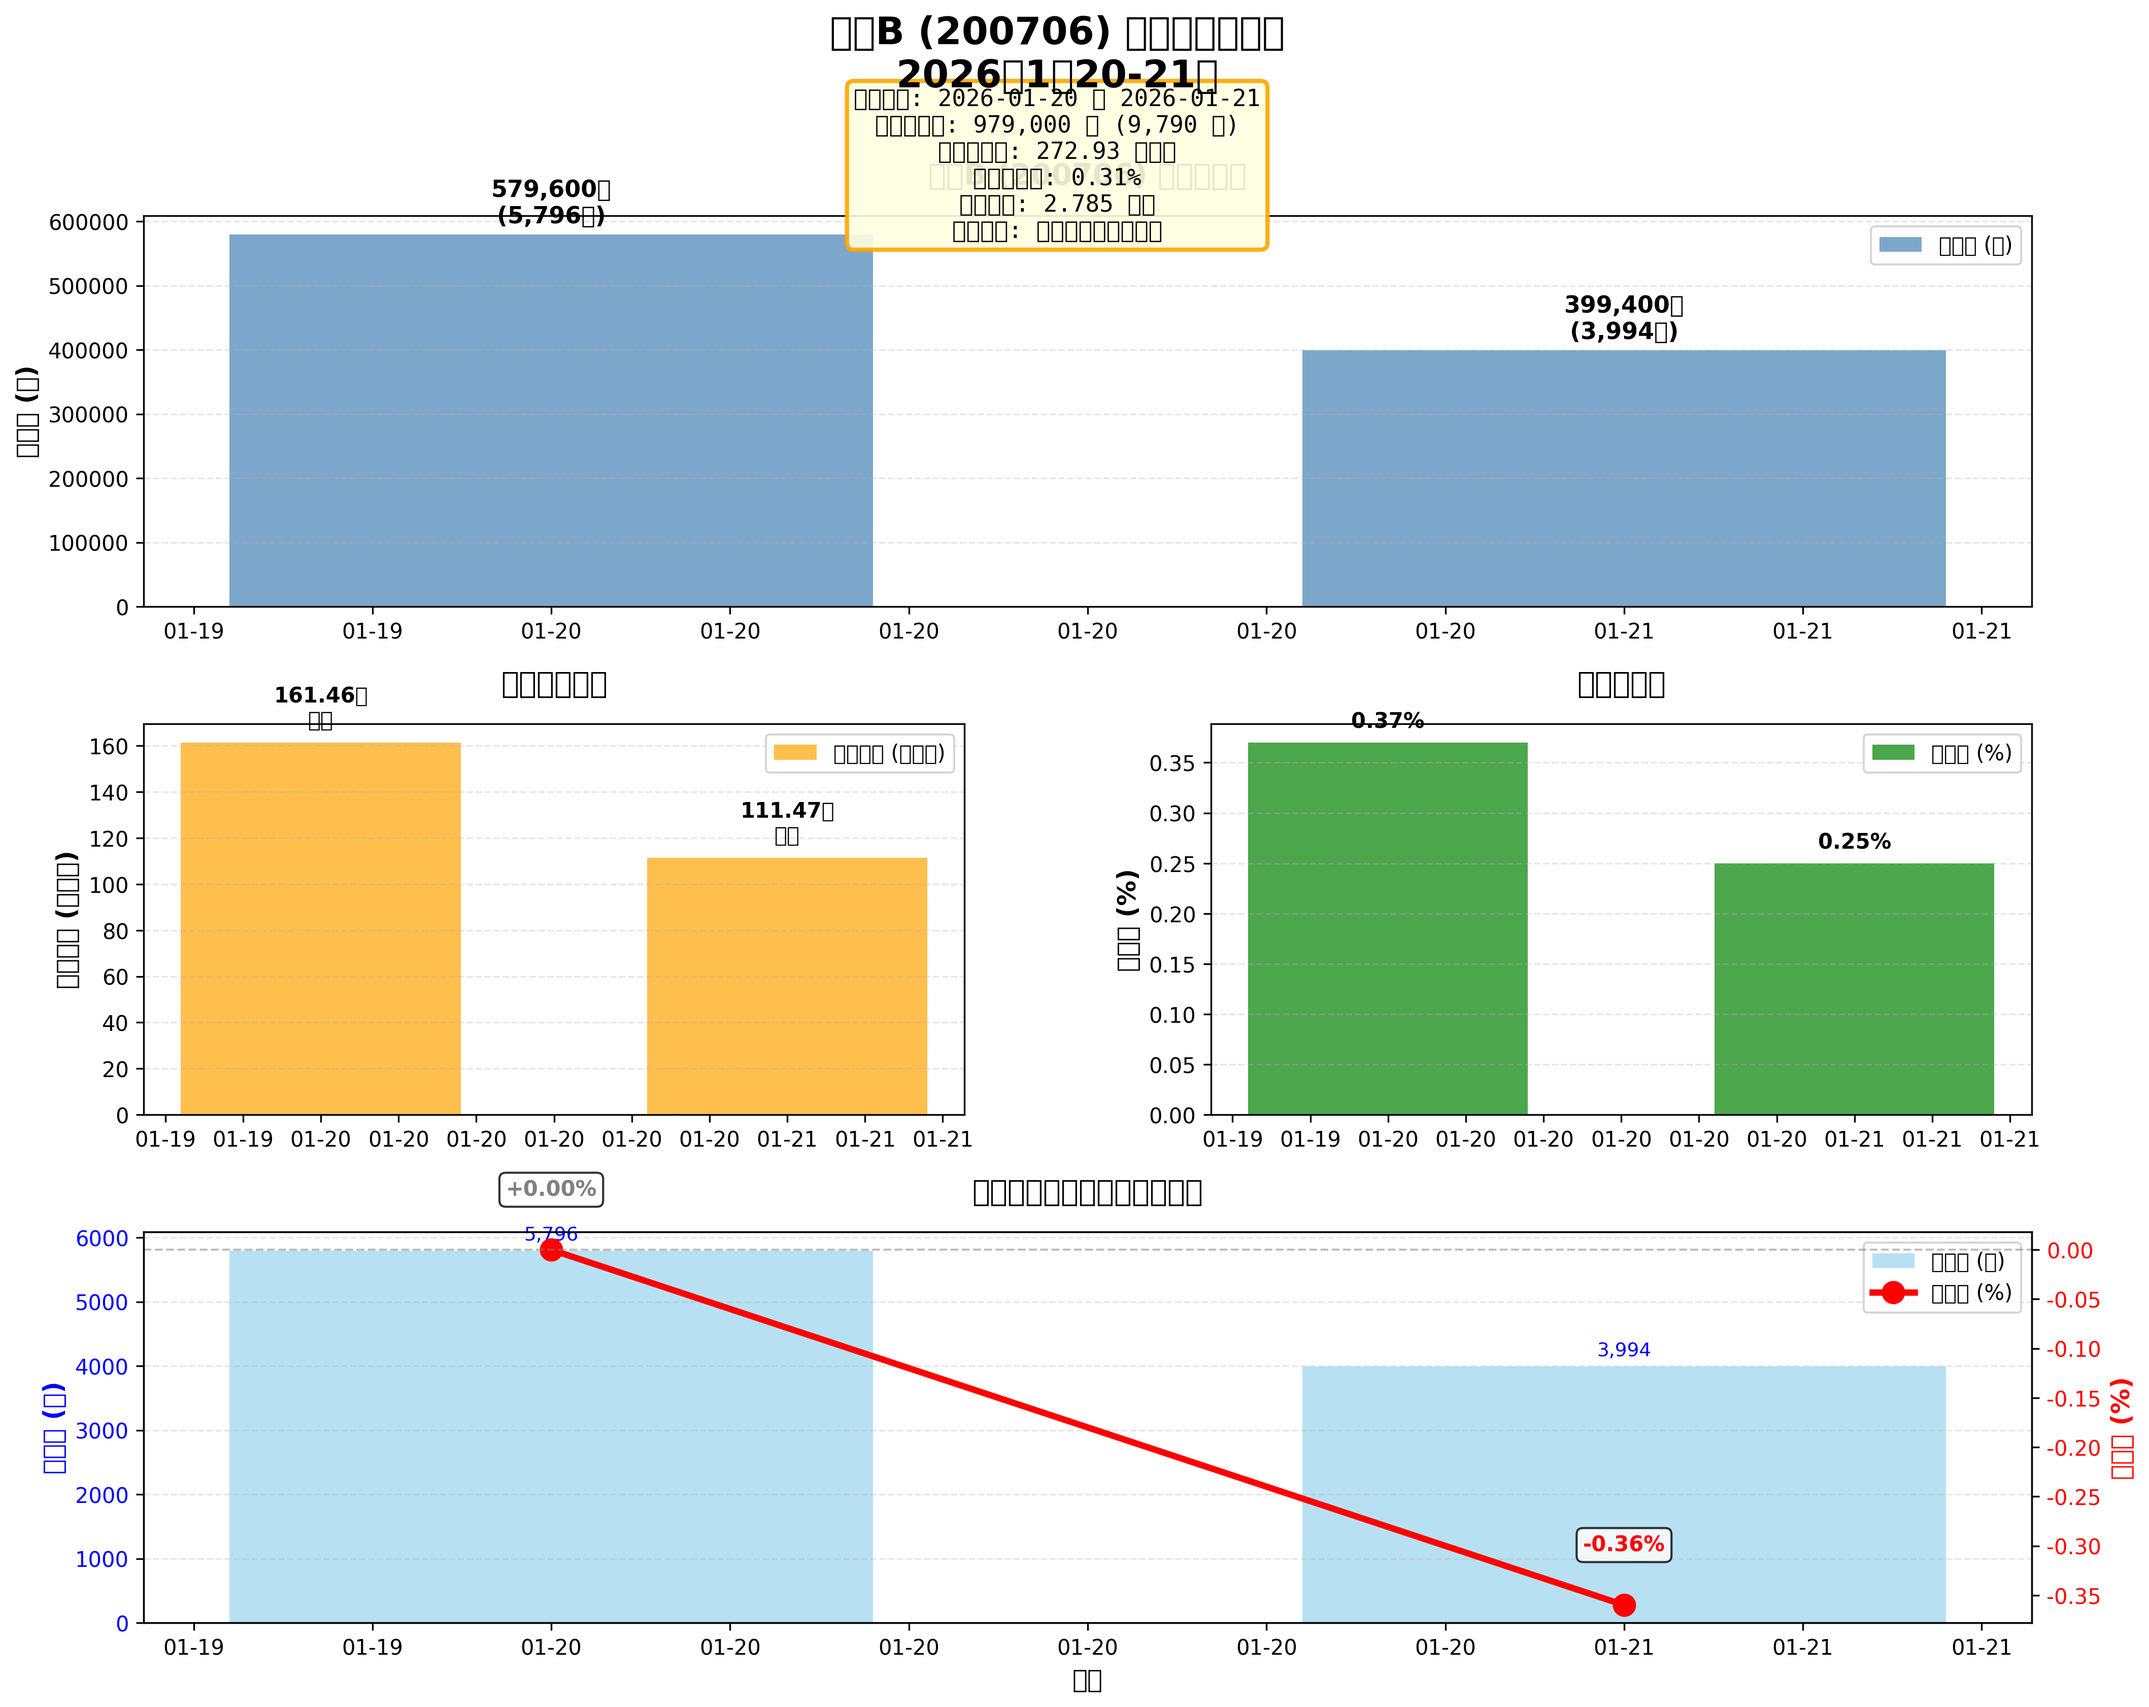
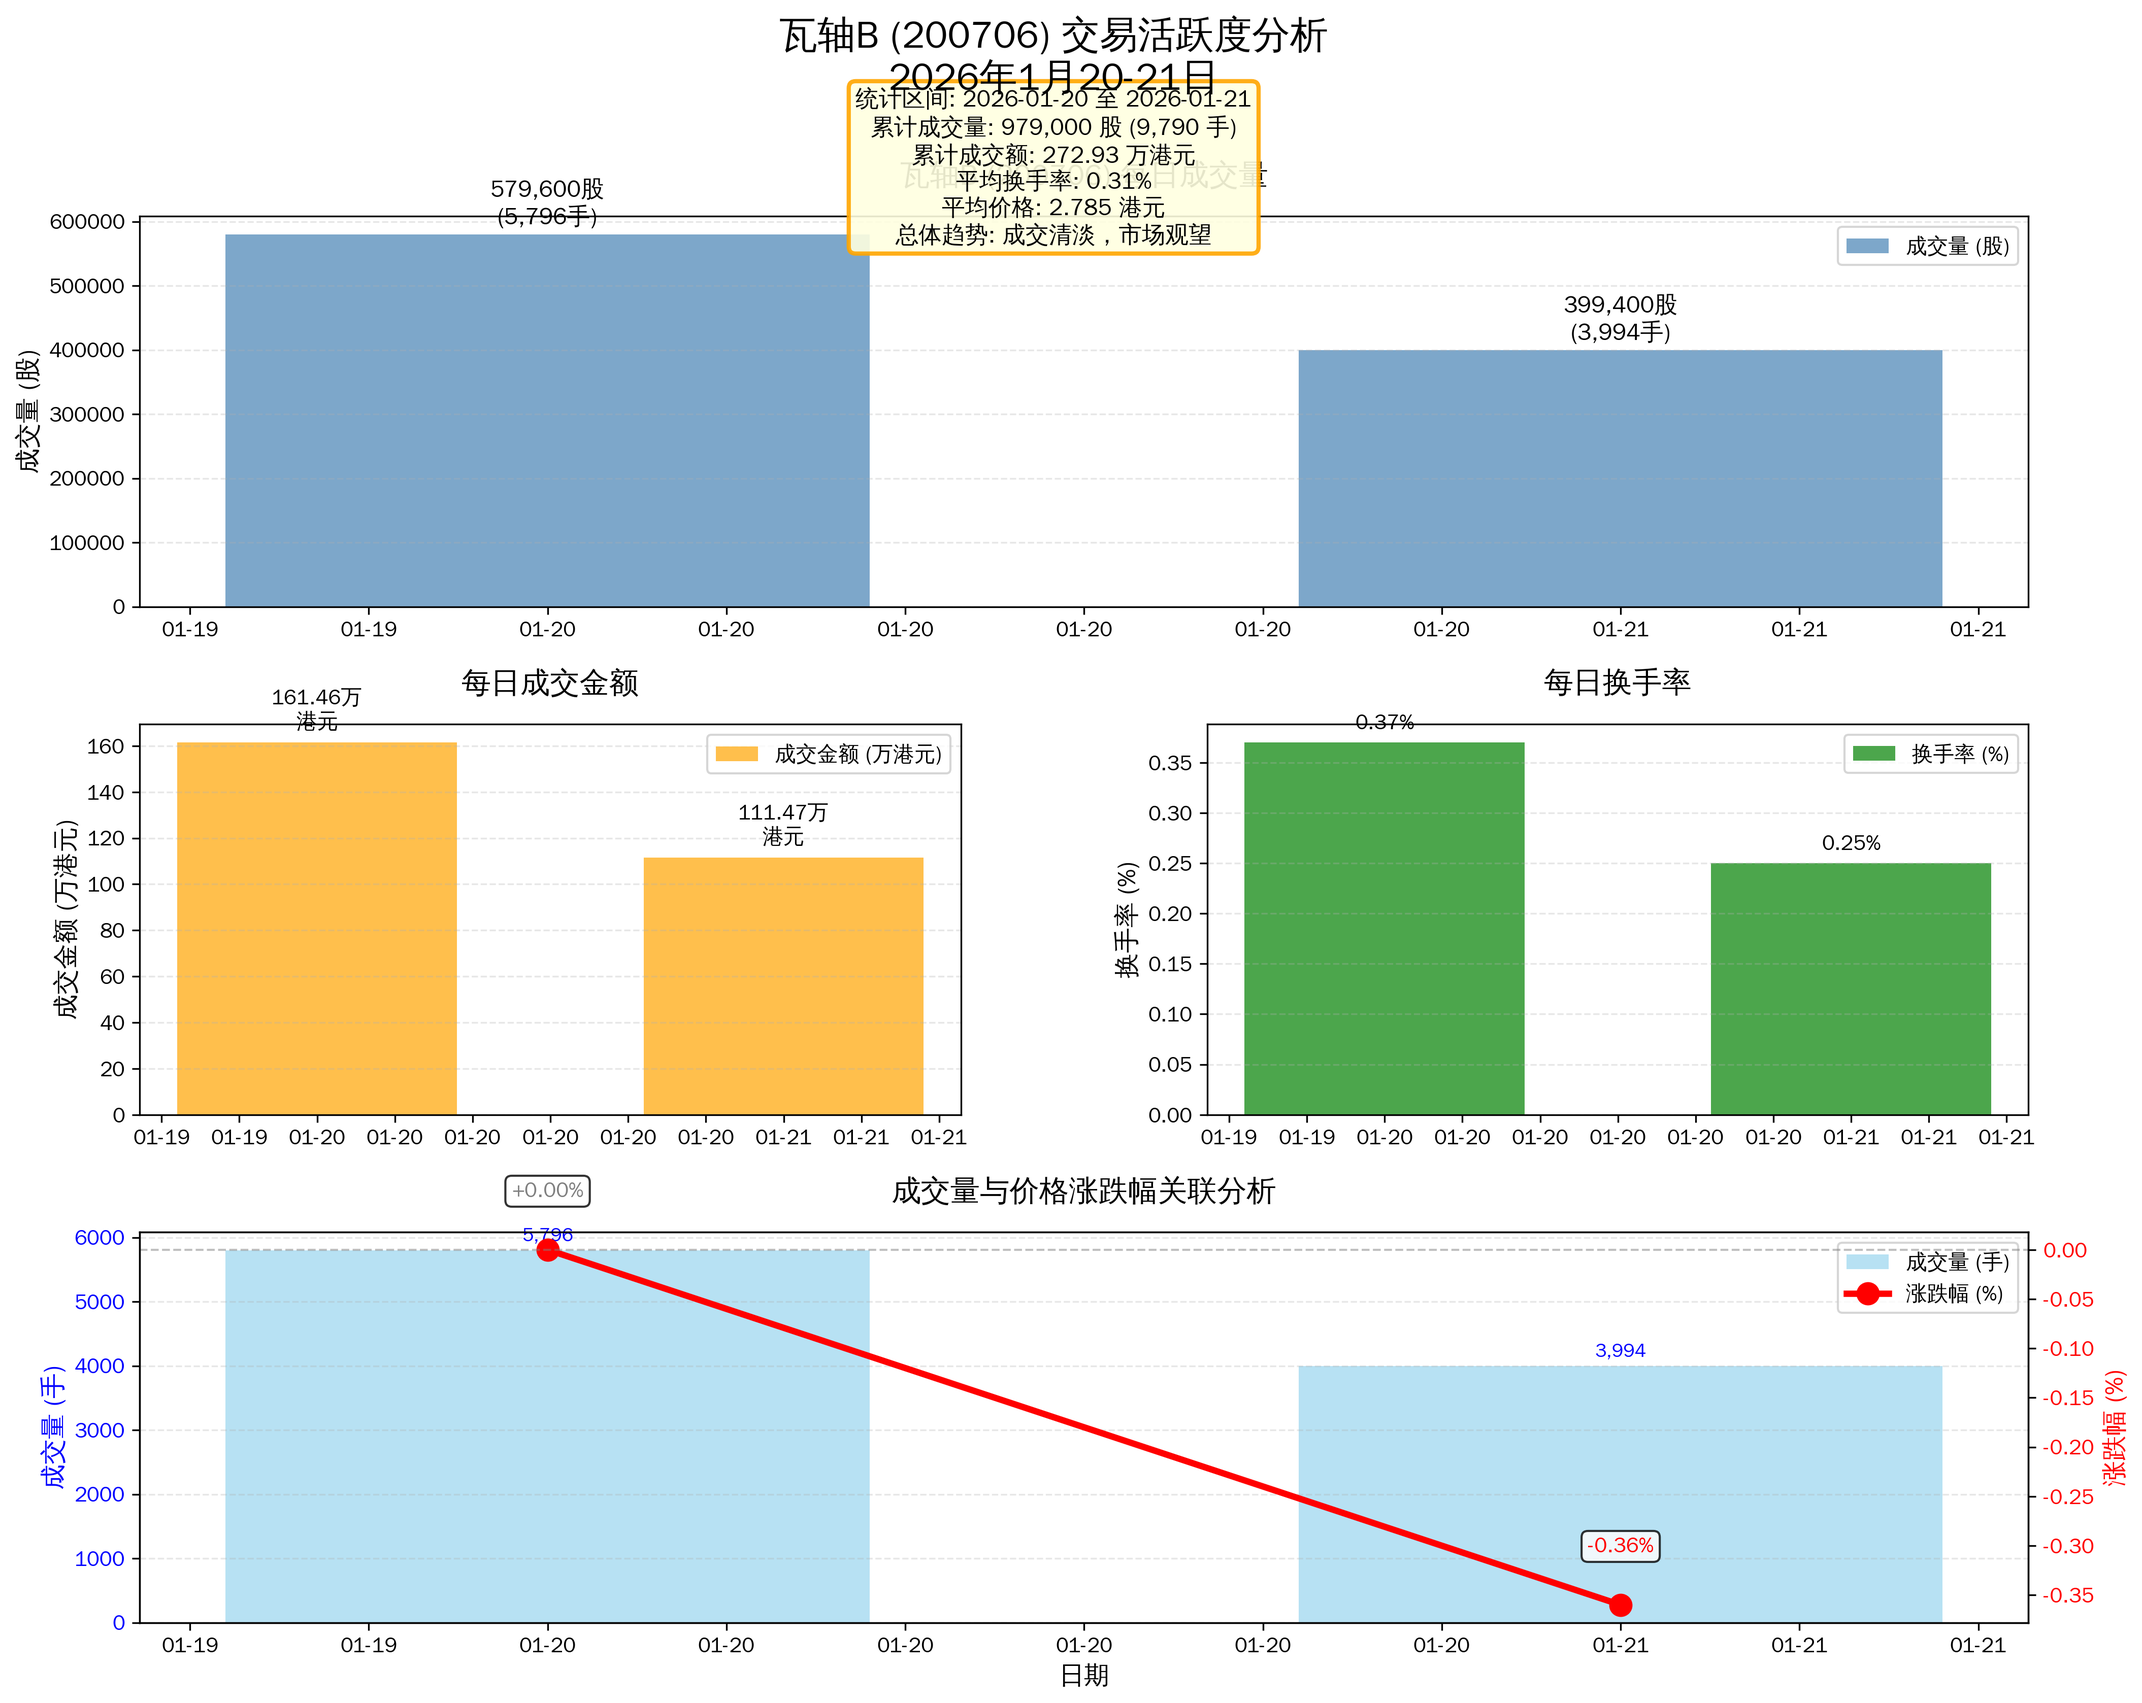
修复图表中文字符显示问题
更改内容：
1. 配置正确的中文字体（文泉驿正黑）
   - 设置 sans-serif 字体为 WenQuanYi Zen Hei
   - 设置 monospace 字体为 WenQuanYi Zen Hei Mono
   - 确保所有中文文本正常显示

2. 重新生成所有图表
   - tender_offer_progress_chart.png (要约收购进展图)
   - stock_price_vs_shares_chart.png (股价对比图)
   - volume_turnover_chart.png (交易量分析图)

3. 图表质量提升
   - 中文标题、标签、注释全部正常显示
   - 统计文本框中的中文信息清晰可读
   - 文件大小增加，字形渲染完整

问题解决：
- 之前使用 SimHei 等不存在的字体导致中文显示为方框
- 现在使用系统内置的文泉驿字体，完美支持中文

diff --git a/14_Wazhou_B_Tender_Offer/generate_price_vs_shares_chart.py b/14_Wazhou_B_Tender_Offer/generate_price_vs_shares_chart.py
@@ -13,8 +13,10 @@ from datetime import datetime
 import numpy as np
 
 # Configure font to support Chinese characters
-plt.rcParams['font.sans-serif'] = ['SimHei', 'DejaVu Sans', 'Arial Unicode MS']
+plt.rcParams['font.sans-serif'] = ['WenQuanYi Zen Hei', 'DejaVu Sans', 'sans-serif']
+plt.rcParams['font.monospace'] = ['WenQuanYi Zen Hei Mono', 'WenQuanYi Zen Hei', 'DejaVu Sans Mono']
 plt.rcParams['axes.unicode_minus'] = False
+plt.rcParams['font.size'] = 10
 
 # Data - trading days
 dates = [

diff --git a/14_Wazhou_B_Tender_Offer/generate_tender_progress_chart.py b/14_Wazhou_B_Tender_Offer/generate_tender_progress_chart.py
@@ -13,8 +13,10 @@ from datetime import datetime
 import numpy as np
 
 # Configure font to support Chinese characters
-plt.rcParams['font.sans-serif'] = ['SimHei', 'DejaVu Sans', 'Arial Unicode MS']
+plt.rcParams['font.sans-serif'] = ['WenQuanYi Zen Hei', 'DejaVu Sans', 'sans-serif']
+plt.rcParams['font.monospace'] = ['WenQuanYi Zen Hei Mono', 'WenQuanYi Zen Hei', 'DejaVu Sans Mono']
 plt.rcParams['axes.unicode_minus'] = False
+plt.rcParams['font.size'] = 10
 
 # Data
 dates = [

diff --git a/14_Wazhou_B_Tender_Offer/generate_volume_turnover_chart.py b/14_Wazhou_B_Tender_Offer/generate_volume_turnover_chart.py
@@ -13,8 +13,10 @@ from datetime import datetime
 import numpy as np
 
 # Configure font to support Chinese characters
-plt.rcParams['font.sans-serif'] = ['SimHei', 'DejaVu Sans', 'Arial Unicode MS']
+plt.rcParams['font.sans-serif'] = ['WenQuanYi Zen Hei', 'DejaVu Sans', 'sans-serif']
+plt.rcParams['font.monospace'] = ['WenQuanYi Zen Hei Mono', 'WenQuanYi Zen Hei', 'DejaVu Sans Mono']
 plt.rcParams['axes.unicode_minus'] = False
+plt.rcParams['font.size'] = 10
 
 # Data
 dates = [
